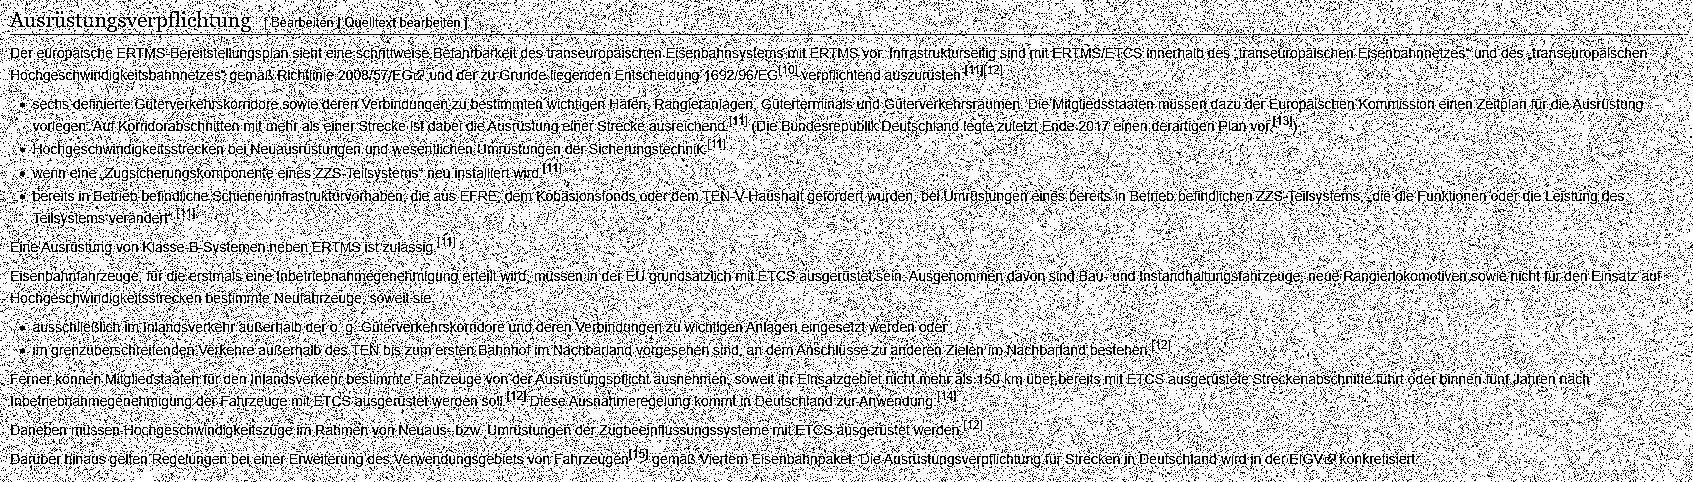
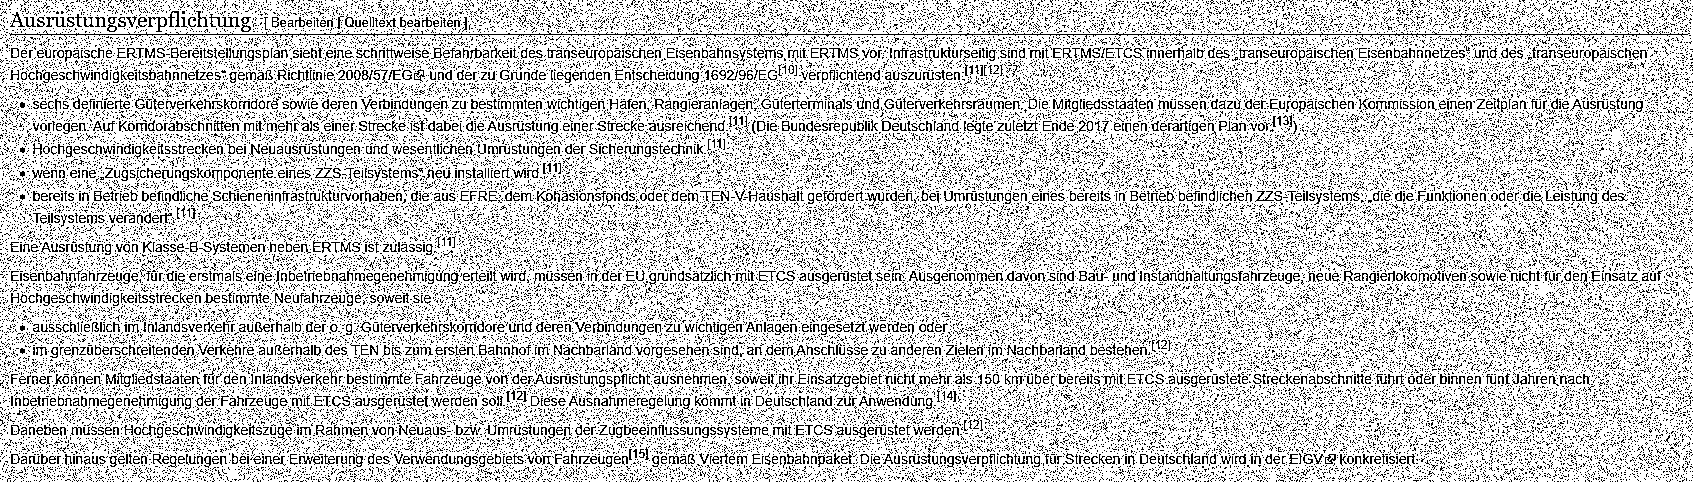
changed noise picture

Changed region(s): [[0.0, 0.0, 1.0, 1.0]]

diff --git a/src/TextRecognizer.py b/src/TextRecognizer.py
@@ -5,7 +5,7 @@ from createImageBoxes import createImageBoxes
 # Run this class for the OCR magic
 
 # Path of the image that the OCR is working with
-image_option = "all" # Choose the picture quality using this parameter. Has to match the folder name
+image_option = "noise" # Choose the picture quality using this parameter. Has to match the folder name
 image_path = "img/" + image_option + "/picture.png"
 
 # Path of the edited image that the OCR is creating
